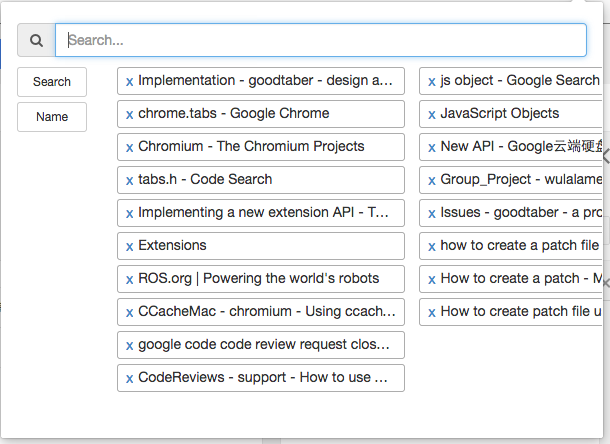
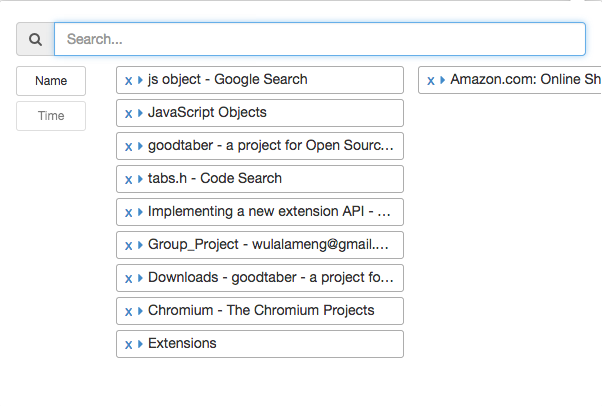
small bugs fixed

Changed region(s): [[0.0, 0.0, 1.0, 1.0], [0.0, 0.0, 0.0299, 0.0296]]

diff --git a/source/extension/scripts/popup.js b/source/extension/scripts/popup.js
@@ -100,7 +100,7 @@ angular
       var tabsPromise = this.getTabs();
       return tabsPromise.then(function(tabs) {
         return tabs.sort(function(a, b) {
-          return a.title < b.title;
+          return a.title > b.title;
         });
       });
     };
